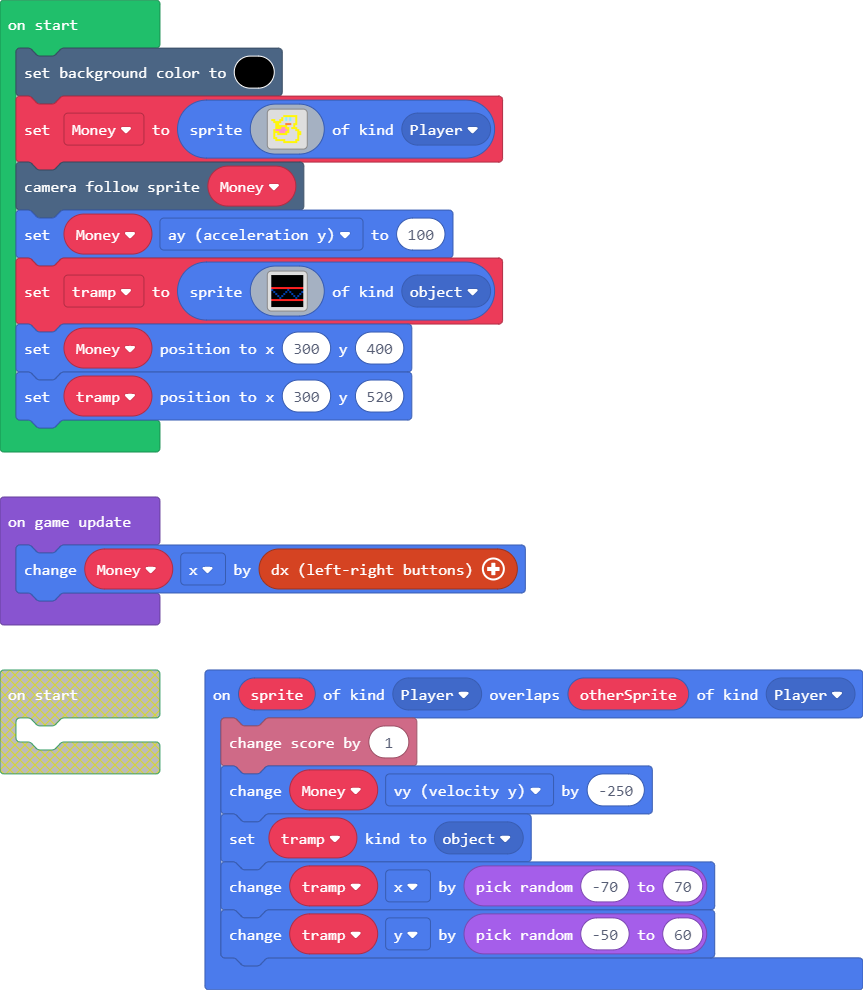
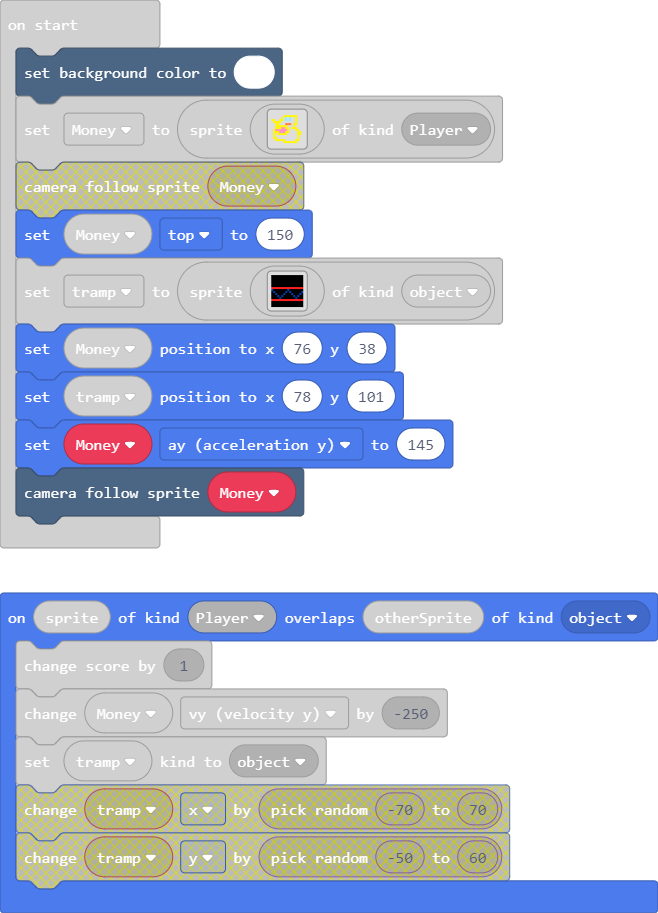
Update main.blocks, main.ts

diff --git a/main.ts b/main.ts
@@ -1,16 +1,35 @@
 namespace SpriteKind {
     export const object = SpriteKind.create()
 }
-sprites.onOverlap(SpriteKind.Player, SpriteKind.Player, function (sprite, otherSprite) {
+namespace myTiles {
+    //% blockIdentity=images._tile
+    export const tile0 = img`
+. . . . . . . . . . . . . . . . 
+. . . . . . . . . . . . . . . . 
+. . . . . . . . . . . . . . . . 
+. . . . . . . . . . . . . . . . 
+. . . . . . . . . . . . . . . . 
+. . . . . . . . . . . . . . . . 
+. . . . . . . . . . . . . . . . 
+. . . . . . . . . . . . . . . . 
+. . . . . . . . . . . . . . . . 
+. . . . . . . . . . . . . . . . 
+. . . . . . . . . . . . . . . . 
+. . . . . . . . . . . . . . . . 
+. . . . . . . . . . . . . . . . 
+. . . . . . . . . . . . . . . . 
+. . . . . . . . . . . . . . . . 
+. . . . . . . . . . . . . . . . 
+`
+}
+sprites.onOverlap(SpriteKind.Player, SpriteKind.object, function (sprite, otherSprite) {
     info.changeScoreBy(1)
     Money.vy += -250
     tramp.setKind(SpriteKind.object)
-    tramp.x += Math.randomRange(-70, 70)
-    tramp.y += Math.randomRange(-50, 60)
 })
 let tramp: Sprite = null
 let Money: Sprite = null
-scene.setBackgroundColor(15)
+scene.setBackgroundColor(1)
 Money = sprites.create(img`
 . . . . . . . . . . . . . . . . 
 . . . . . . 5 5 5 5 5 5 5 . . . 
@@ -29,8 +48,7 @@ Money = sprites.create(img`
 . . . . . . 5 5 5 5 5 5 5 . . . 
 . . . . . . . . . . . . . . . . 
 `, SpriteKind.Player)
-scene.cameraFollowSprite(Money)
-Money.ay = 100
+Money.top = 150
 tramp = sprites.create(img`
 f f f f f f f f f f f f f f f f 
 f f f f f f f f f f f f f f f f 
@@ -49,8 +67,10 @@ f f f f f f f f f f f f f f f f
 f f f f f f f f f f f f f f f f 
 f f f f f f f f f f f f f f f f 
 `, SpriteKind.object)
-Money.setPosition(300, 400)
-tramp.setPosition(300, 520)
+Money.setPosition(76, 38)
+tramp.setPosition(78, 101)
+Money.ay = 145
+scene.cameraFollowSprite(Money)
 game.onUpdate(function () {
     Money.x += controller.dx()
 })
